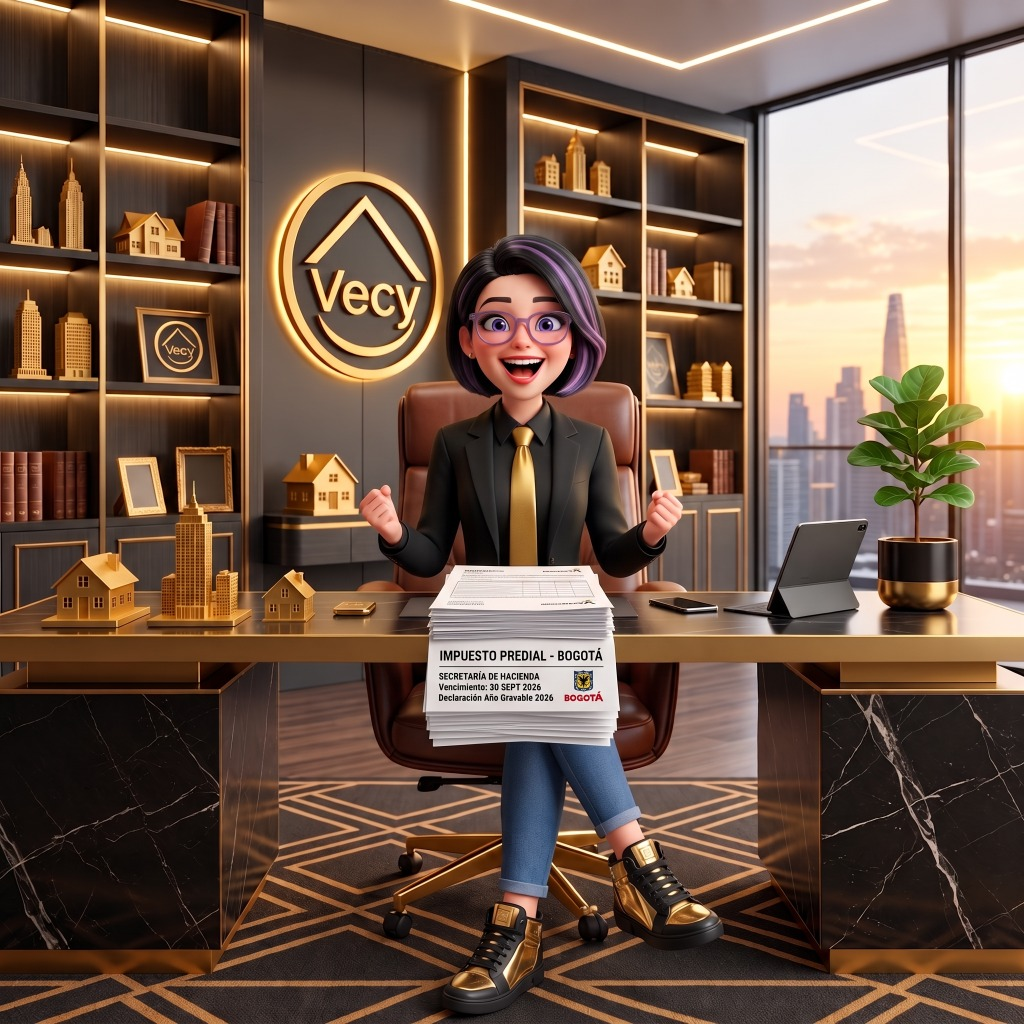
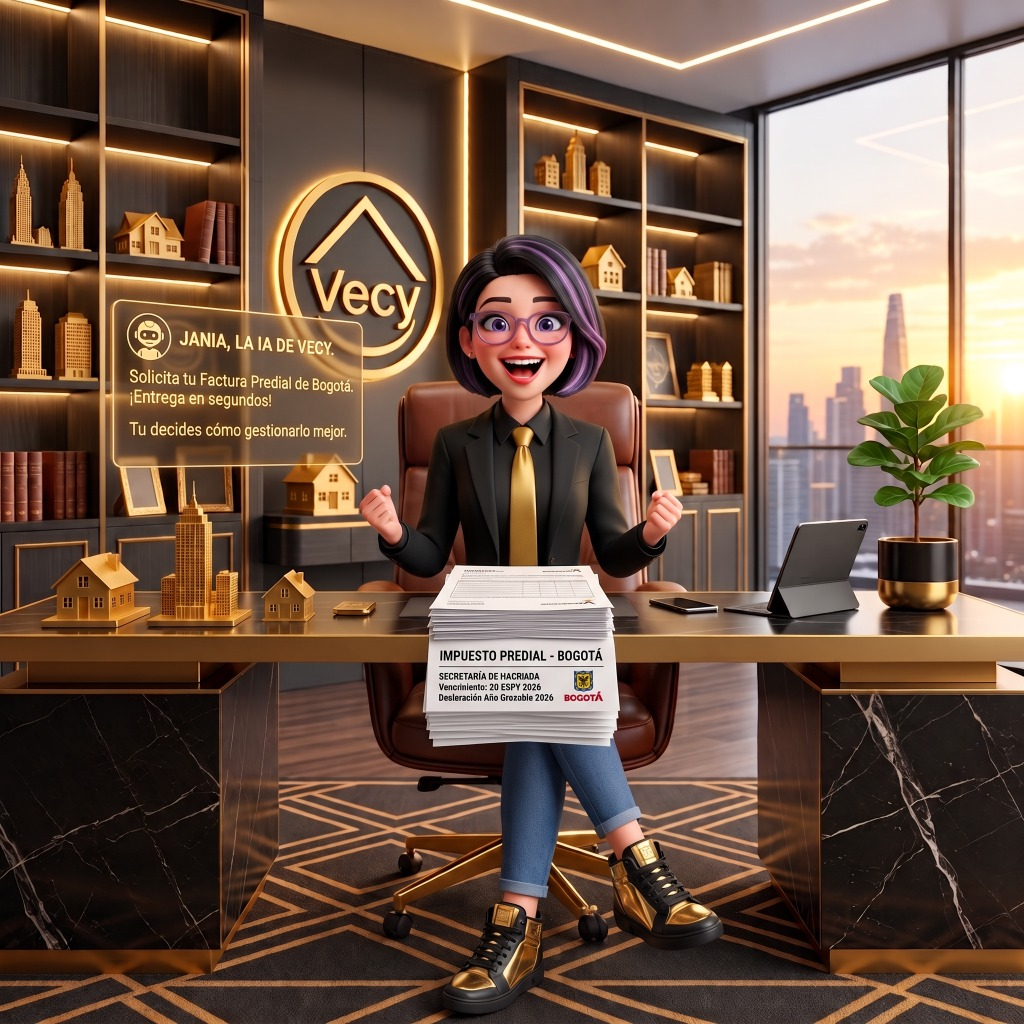
feat(broadcast): actualizar imagen oficial de predial, copy corto de venta y contacto broker 3166569719

diff --git a/server/_core/index.ts b/server/_core/index.ts
@@ -598,6 +598,8 @@ async function startServer() {
         `_(También acepta CE o Pasaporte)_\n\n` +
         `3⃣ En segundos te entrega el nombre oficial y antecedentes ✅\n\n` +
         `━━━━━━━━━━━━━━━\n` +
+        `🤝 _Tecnología gratuita para blindar tus ventas y captaciones en Colombia._\n\n` +
+        `📞 *Atención Bróker VECY:* +57 316 656 9719 (https://wa.me/573166569719)\n` +
         `📢 *Canal oficial:* https://whatsapp.com/channel/0029Vb5iYUYCMY0A94zqti1b\n` +
         `🌐 *Web oficial:* https://vecy-network.vercel.app/\n\n` +
         `*VECY BIENES RAÍCES 🏘*`;
@@ -650,19 +652,15 @@ async function startServer() {
       const hasImage = predialImg.exists;
 
       const promoText =
-        `🏠 *¿TIENES PREDIO EN BOGOTÁ?* 🇨🇴\n\n` +
-        `Con *JanIA* — la IA de *VECY BIENES RAÍCES* — obtén el enlace oficial de la Secretaría de Hacienda para descargar tu *factura del Impuesto Predial 2026* en PDF con código de barras para bancos y Efecty.\n\n` +
-        `🎯 _Gratis, rápido y sin filas ni registros complicados._\n\n` +
+        `🏠📄 *¿VAS A VENDER UN INMUEBLE O NECESITAS LA FACTURA PREDIAL 2026?* 🇨🇴\n\n` +
+        `En *VECY BIENES RAÍCES* le ahorramos filas y caídas de la página de Hacienda a propietarios y colegas inmobiliarios.\n\n` +
+        `Con *JanIA* obtienes tu *Factura Oficial del Predial Bogotá 2026 en PDF* (con código de barras para bancos o Efecty) en 20 segundos por WhatsApp:\n\n` +
+        `1⃣ Escríbele al WhatsApp de JanIA: *+57 319 291 9978* (https://wa.me/573192919978)\n` +
+        `2⃣ Envíale: \`JanIA, predial: CHIP AAA... y CC 12345678\` (o NIT)\n` +
+        `3⃣ ¡Listo! Te entrega el archivo PDF oficial adjunto en tu chat. 📄✅\n\n` +
         `━━━━━━━━━━━━━━━\n` +
-        `⚡ *¿Cómo solicitarla? (En 1 solo mensaje):*\n\n` +
-        `1⃣ Escríbele a JanIA por privado a su WhatsApp:\n` +
-        `📲 *+57 319 291 9978* (o toca aquí: https://wa.me/573192919978)\n\n` +
-        `2⃣ Envíale el CHIP y documento en un solo mensaje:\n` +
-        `👉 \`JanIA, predial: CHIP AAA0205AYFZ y CC 12345678\`\n` +
-        `_(Si es empresa, usa NIT en vez de CC)_\n\n` +
-        `3⃣ JanIA te entrega de inmediato el enlace directo y los pasos exactos para descargar tu PDF oficial ✅\n\n` +
-        `━━━━━━━━━━━━━━━\n` +
-        `ℹ *¿Dónde está el CHIP?* En cualquier factura o recibo predial anterior.\n` +
+        `🤝 _Tecnología gratuita para impulsar el corretaje y dejar en el pasado los portales obsoletos._\n\n` +
+        `📞 *Atención Bróker VECY:* +57 316 656 9719 (https://wa.me/573166569719)\n` +
         `📢 *Canal oficial:* https://whatsapp.com/channel/0029Vb5iYUYCMY0A94zqti1b\n` +
         `🌐 *Web oficial:* https://vecy-network.vercel.app/\n\n` +
         `*VECY BIENES RAÍCES 🏘*`;
